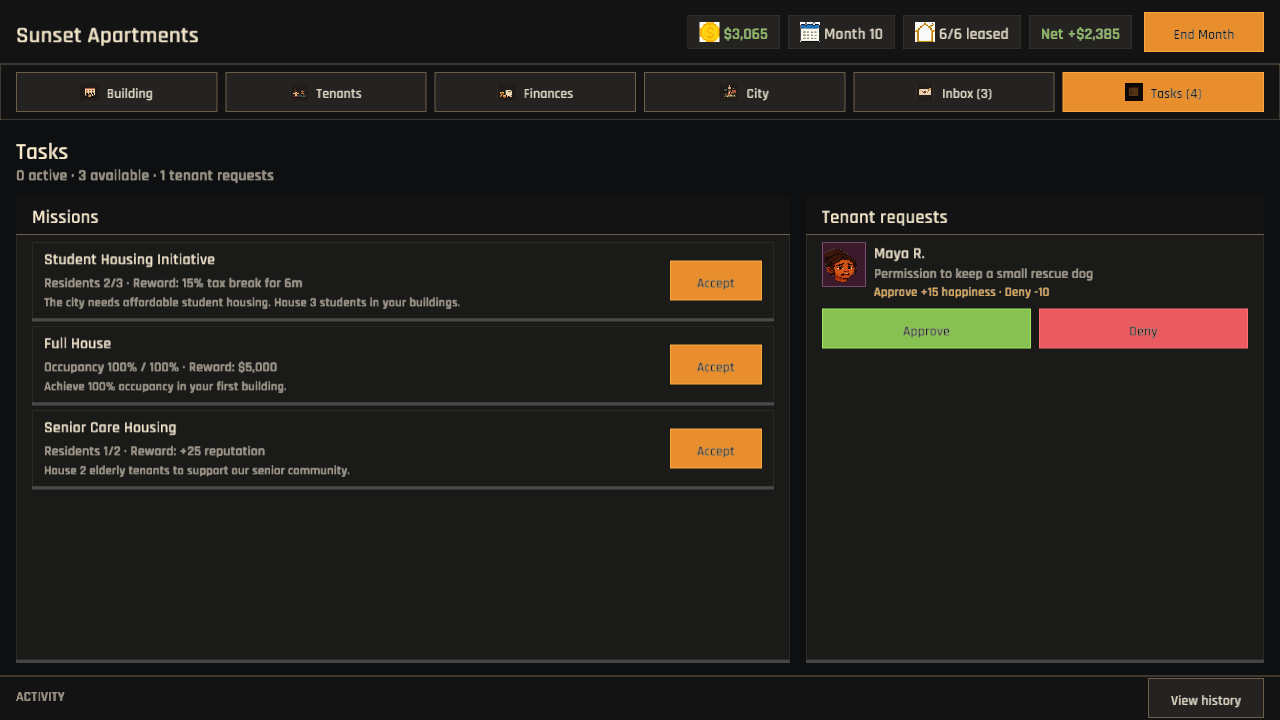
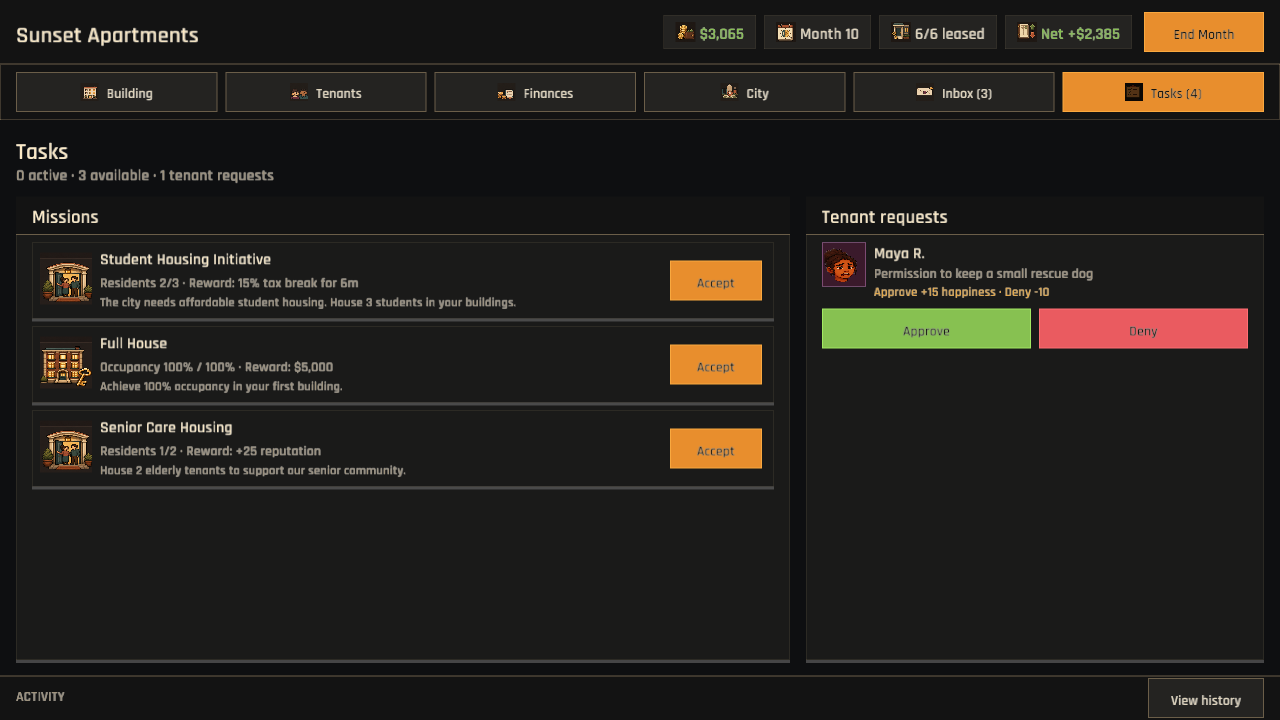
Each civic promise now bears the seal of the work it asks for (mission goal atlas)
Add a generated 3x2 atlas for tenant housing, full occupancy, sustained happiness, perfect rent collection, full repair, and property acquisition goals. Give mission cards a compact leading illustration while preserving authoritative progress, rewards, descriptions, statuses, and Accept actions.

Reserve action-button space explicitly at both desktop and 640x480 widths, retain text-only behavior if the atlas is unavailable, and prove every MissionGoal variant owns a unique cell.

Verified with 138 passing tests (1 ignored), desktop and 640x480 mission-desk captures, formatting, JSON and Rust line-count checks, and publish.ps1 for Windows, WebGL, and preview deployment.

diff --git a/src/ui/workspace_tasks.rs b/src/ui/workspace_tasks.rs
@@ -104,9 +104,22 @@ pub fn draw_tasks_view(state: &GameplayState, assets: &AssetManager) -> Option<U
             Rect::new(missions.x, y, missions.w, card_h),
             mission.status == MissionStatus::Active,
         );
+        let icon_rect = Rect::new(missions.x + space::SM, y + 10.0, 52.0, 52.0);
+        let has_icon = draw_mission_icon(&mission.goal, icon_rect, assets);
+        let text_x = if has_icon {
+            icon_rect.right() + space::SM
+        } else {
+            missions.x + space::MD
+        };
+        let action_reserve = if mission.status == MissionStatus::Available {
+            116.0
+        } else {
+            space::MD
+        };
+        let text_w = (missions.right() - action_reserve - text_x).max(60.0);
         draw_ui_text(
-            &truncate_text_to_width(&mission.title, missions.w - 130.0, scale::BODY),
-            missions.x + space::MD,
+            &truncate_text_to_width(&mission.title, text_w, scale::BODY),
+            text_x,
             y + 22.0,
             scale::BODY,
             color::TEXT_BRIGHT(),
@@ -116,17 +129,17 @@ pub fn draw_tasks_view(state: &GameplayState, assets: &AssetManager) -> Option<U
         draw_ui_text(
             &truncate_text_to_width(
                 &format!("{} · Reward: {}", progress, reward),
-                missions.w - space::MD * 2.0,
+                text_w,
                 scale::LABEL,
             ),
-            missions.x + space::MD,
+            text_x,
             y + 45.0,
             scale::LABEL,
             color::TEXT_DIM(),
         );
         draw_ui_text(
-            &truncate_text_to_width(&mission.description, missions.w - 130.0, scale::CAPTION),
-            missions.x + space::MD,
+            &truncate_text_to_width(&mission.description, text_w, scale::CAPTION),
+            text_x,
             y + 64.0,
             scale::CAPTION,
             color::TEXT_DIM(),
@@ -285,6 +298,48 @@ pub fn draw_tasks_view(state: &GameplayState, assets: &AssetManager) -> Option<U
     }
     None
 }
+
+fn mission_icon_tile(goal: &MissionGoal) -> (f32, f32) {
+    match goal {
+        MissionGoal::HouseTenants { .. } => (0.0, 0.0),
+        MissionGoal::ReachOccupancy { .. } => (1.0, 0.0),
+        MissionGoal::MaintainHappiness { .. } => (2.0, 0.0),
+        MissionGoal::PerfectCollection { .. } => (0.0, 1.0),
+        MissionGoal::FullRepair { .. } => (1.0, 1.0),
+        MissionGoal::AcquireBuilding => (2.0, 1.0),
+    }
+}
+
+fn draw_mission_icon(goal: &MissionGoal, rect: Rect, assets: &AssetManager) -> bool {
+    let Some(texture) = assets.get_texture("mission_icons") else {
+        return false;
+    };
+    let (column, row) = mission_icon_tile(goal);
+    let tile_w = texture.width() / 3.0;
+    let tile_h = texture.height() * 0.5;
+    let inset_x = tile_w * 0.08;
+    let inset_y = tile_h * 0.08;
+    draw_texture_ex(
+        texture,
+        rect.x,
+        rect.y,
+        WHITE,
+        DrawTextureParams {
+            dest_size: Some(vec2(rect.w, rect.h)),
+            source: Some(Rect::new(
+                column * tile_w + inset_x,
+                row * tile_h + inset_y,
+                tile_w - inset_x * 2.0,
+                tile_h - inset_y * 2.0,
+            )),
+            ..Default::default()
+        },
+    );
+    true
+}
+
+#[cfg(test)]
+mod tests;
 
 fn mission_progress(state: &GameplayState, goal: &MissionGoal) -> String {
     match goal {

diff --git a/src/ui/workspace_tasks/tests.rs b/src/ui/workspace_tasks/tests.rs
@@ -1,0 +1,28 @@
+use super::*;
+
+#[test]
+fn every_mission_goal_owns_a_unique_atlas_cell() {
+    let goals = [
+        MissionGoal::HouseTenants {
+            count: 1,
+            archetype: None,
+        },
+        MissionGoal::ReachOccupancy { percentage: 1.0 },
+        MissionGoal::MaintainHappiness {
+            threshold: 70.0,
+            months: 1,
+            current_months: 0,
+        },
+        MissionGoal::PerfectCollection {
+            months: 1,
+            current_months: 0,
+        },
+        MissionGoal::FullRepair { building_id: 0 },
+        MissionGoal::AcquireBuilding,
+    ];
+    let goal_count = goals.len();
+    let mut cells = goals.map(|goal| mission_icon_tile(&goal)).to_vec();
+    cells.sort_by(|left, right| left.partial_cmp(right).unwrap());
+    cells.dedup();
+    assert_eq!(cells.len(), goal_count);
+}

diff --git a/src/assets.rs b/src/assets.rs
@@ -69,6 +69,7 @@ impl AssetManager {
             "workspace_icons",
             "upgrade_icons",
             "status_icons",
+            "mission_icons",
             "icon_money",
             "icon_repair",
             "icon_upgrade",
@@ -136,6 +137,7 @@ impl AssetManager {
                             | "workspace_icons"
                             | "upgrade_icons"
                             | "status_icons"
+                            | "mission_icons"
                     ) {
                     FilterMode::Linear
                 } else {
